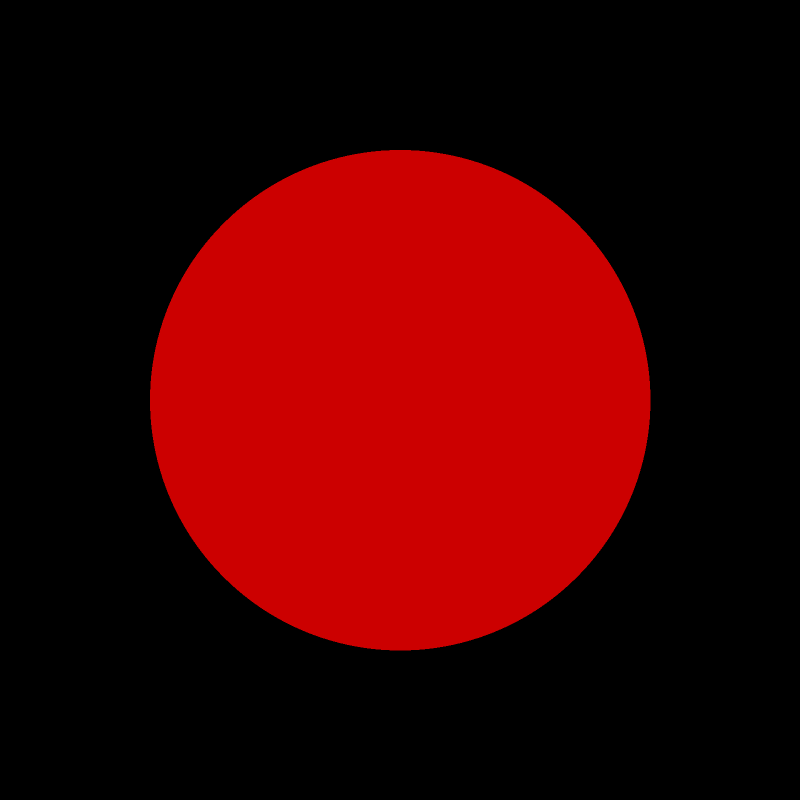
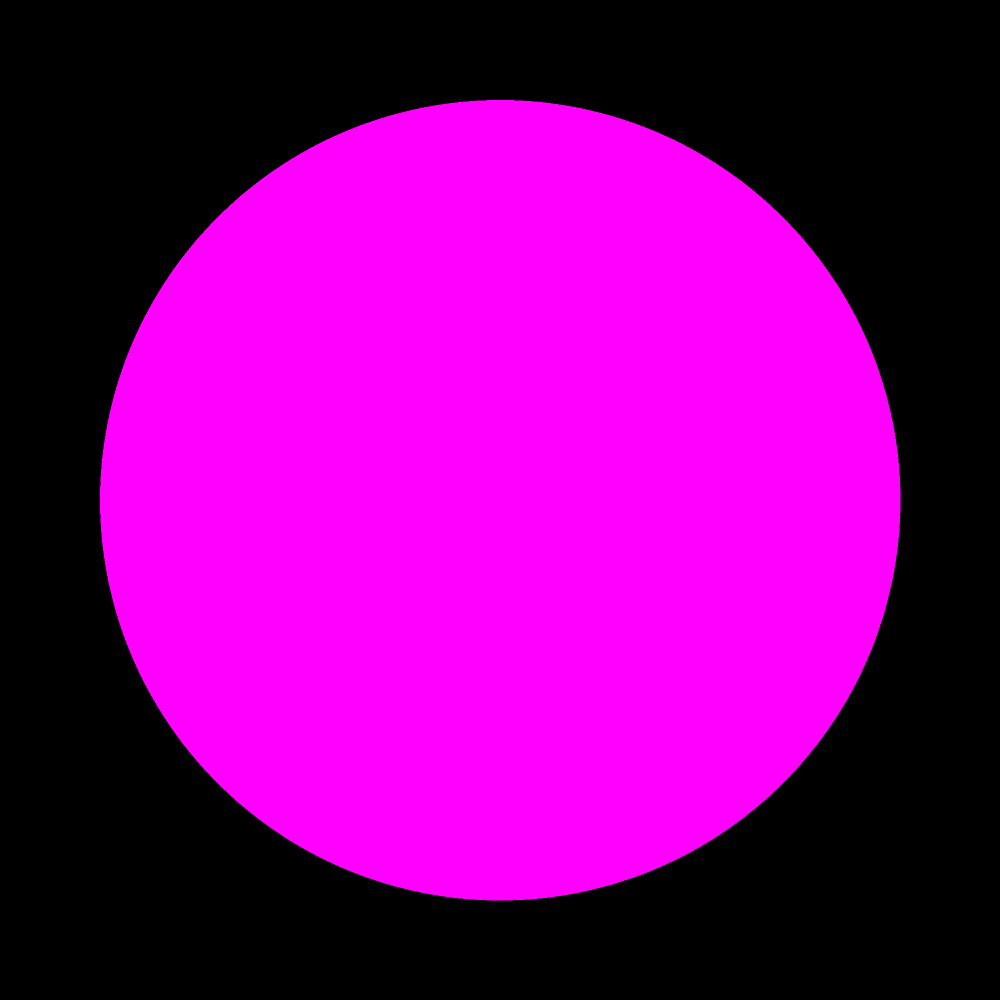
Circle upgrade. Finally visible.

diff --git a/lesson3-extra3/css/style.css b/lesson3-extra3/css/style.css
@@ -1,4 +1,11 @@
+body {
+    display: flex;
+    justify-content: space-around;
+    margin: 0;
+    background-color: black;
+}
+
 img {
-   min-height: 500px;
-   min-width: 500px;
+height: 100%;
+width: 100vh;
 }

diff --git a/lesson3-extra3/circle.php b/lesson3-extra3/circle.php
@@ -2,28 +2,31 @@
 <html lang="en">
 <head>
     <meta charset="UTF-8">
-    <meta name="viewport" content="width=device-width, initial-scale=1.0">
-    <title>Circle</title>  
+    <meta name="viewport" content="width=device-width, initial-scale=1.0"> 
     <link rel="stylesheet" href="css/style.css">
+    <title>Circle</title>
 </head>
 <body>
  <?php
-header('Content-Type: image/png');
- $circleSize=500;
- $canvasSize=800;
+ $circleSize = 800;
+ $canvasSize = 1000;
+ $top = 0;
+ $bottom = 0;
+ $left = 0;
+ $right = 0;
  
-
  $imageX2 = imagecreatetruecolor($canvasSize*2, $canvasSize*2);
  
- $bg = imagecolorallocate($imageX2, 255, 255, 255);
+ $bg = imagecolorallocate($imageX2, 0, 0, 0);
  
- $col_ellipse = imagecolorallocate($imageX2, 204, 0, 0);
+ $col_ellipse = imagecolorallocate($imageX2, 255, 0, 255);
  
  imagefilledellipse($imageX2, $canvasSize, $canvasSize, $circleSize*2, $circleSize*2, $col_ellipse);
  
  $imageOut = imagecreatetruecolor($canvasSize, $canvasSize);
- imagecopyresampled($imageOut, $imageX2, 0, 0, 0, 0, $canvasSize, $canvasSize, $canvasSize*2, $canvasSize*2);
+ imagecopyresampled($imageOut, $imageX2, $right, $bottom, $left, $top, $canvasSize, $canvasSize, $canvasSize*2, $canvasSize*2);
  imagepng($imageOut, 'test.png');
+ echo '<img src="test.png"/>';
  ?>
 </body>
 </html>
